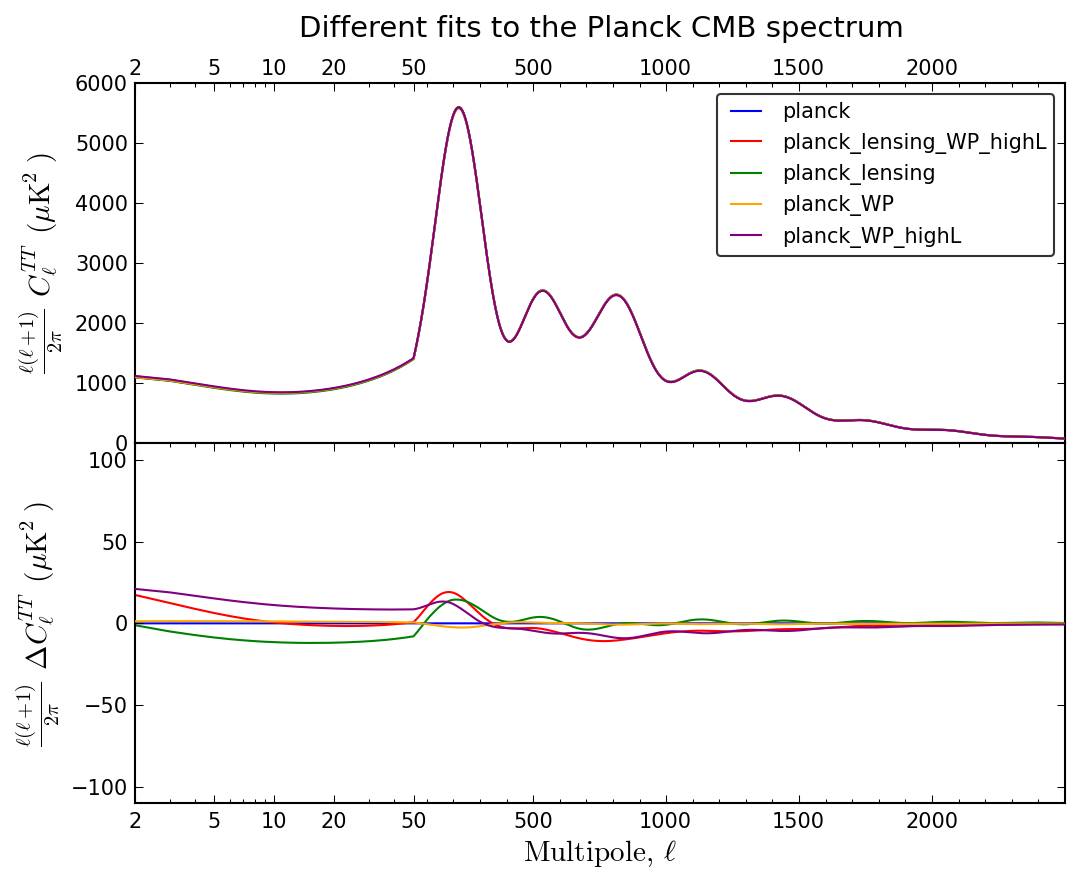
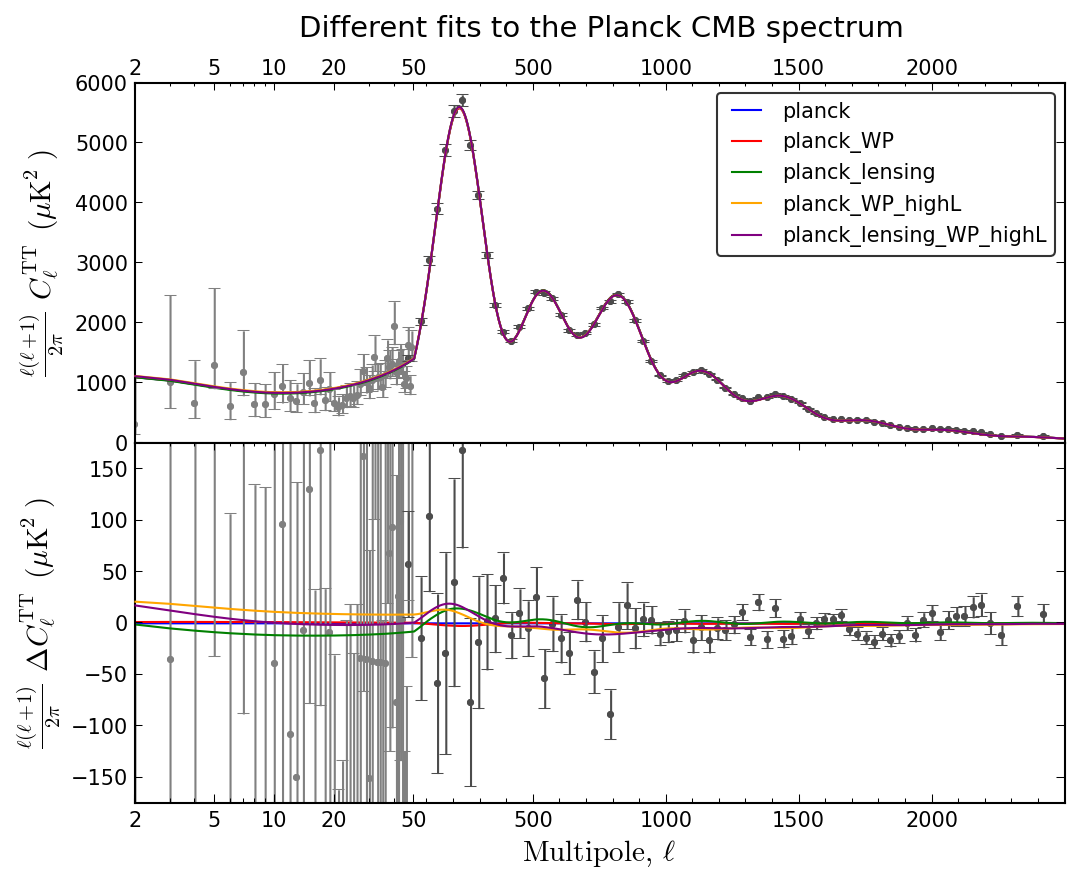
Fixed Planck scale. Version 1.1

diff --git a/src/PlanckLogLinearScale.py b/src/PlanckLogLinearScale.py
@@ -6,122 +6,128 @@
 #       since the scale must be registered (see last line)
 
 import numpy as np
+from numpy import ma
+MaskedArray = ma.MaskedArray
 from math import floor
 from matplotlib import scale as mscale
 from matplotlib.transforms import Transform
 from matplotlib.ticker import Formatter, FixedLocator
 
-class PlanckLogLinearScale(mscale.ScaleBase):
-    # The scale class must have a member ``name`` that defines the
-    # string used to select the scale.  For example,
-    # ``gca().set_yscale("mercator")`` would be used to select this
-    # scale.
+nonpos = "mask"
+change = 50.0
+factor = 750.
+
+def _mask_nonpos(a):
+    """
+    Return a Numpy masked array where all non-positive 1 are
+    masked.  If there are no non-positive, the original array
+    is returned.
+    """
+    mask = a <= 0.0
+    if mask.any():
+        return ma.MaskedArray(a, mask=mask)
+    return a
+
+def _clip_smaller_than_one(a):
+    a[a <= 0.0] = 1e-300
+    return a
+
+class PlanckScale(mscale.ScaleBase):
+    """
+    Scale used by the Planck collaboration to plot Temperature power spectra:
+    base-10 logarithmic up to l=50, and linear from there on.
+
+    Care is taken so non-positive values are not plotted.
+    """
     name = 'planck'
+
     def __init__(self, axis, **kwargs):
-        """
-        Any keyword arguments passed to ``set_xscale`` and
-        ``set_yscale`` will be passed along to the scale's
-        constructor.
-        """
-        mscale.ScaleBase.__init__(self)
+        pass
+
+    def set_default_locators_and_formatters(self, axis):
+        axis.set_major_locator(
+            FixedLocator(
+                np.concatenate((np.array([2, 5, 10, 20, change]),
+                                np.arange(500, 2500, 500)))))
+        axis.set_minor_locator(
+            FixedLocator(
+                np.concatenate((np.arange(2, 10),
+                                np.arange(10, 50, 10),
+                                np.arange(floor(change/100), 2500, 100)))))
+
     def get_transform(self):
         """
-        Override this method to return a new instance that does the
-        actual transformation of the data.
+        Return a :class:`~matplotlib.transforms.Transform` instance
+        appropriate for the given logarithm base.
         """
-        return self.PlanckLogLinearTransform()
-    def set_default_locators_and_formatters(self, axis):
-         """
-         Override to set up the locators and formatters to use with the
-         scale.  This is only required if the scale requires custom
-         locators and formatters.  Writing custom locators and
-         formatters is rather outside the scope of this example, but
-         there are many helpful examples in ``ticker.py``.
+        return self.PlanckTransform(nonpos)
 
-#         In our case, the Mercator example uses a fixed locator from
-#         -90 to 90 degrees and a custom formatter class to put convert
-#         the radians to degrees and put a degree symbol after the
-#         value::
-         """
-# EXAMPLE CODE
-#         class DegreeFormatter(Formatter):
-#             def __call__(self, x, pos=None):
-#                 # \u00b0 : degree symbol
-#                 return "%d\u00b0" % ((x / np.pi) * 180.0)
-#         deg2rad = np.pi / 180.0
-#         axis.set_major_locator(FixedLocator(np.arange(1, 2500, 10)))
-#         axis.set_major_formatter(DegreeFormatter())
-#         axis.set_minor_formatter(DegreeFormatter())
-         change = 50
-         axis.set_major_locator(FixedLocator(np.concatenate((np.array([2,5,10,20]),
-                                                             np.array([change]),
-                                                             np.arange(500, 2500, 500)))))
-         axis.set_minor_locator(FixedLocator(np.concatenate((np.arange(2,10),
-                                                             np.arange(10,50,10),
-                                                             np.arange(floor(change/100), 2500, 100)))))
-    class PlanckLogLinearTransform(Transform):
-        input_dims = 1
-        output_dims = 1
+    def limit_range_for_scale(self, vmin, vmax, minpos):
+        """
+        Limit the domain to positive values.
+        """
+        return (vmin <= 0.0 and minpos or vmin,
+                vmax <= 0.0 and minpos or vmax)
+
+    class PlanckTransform(Transform):
+        input_dims   = 1
+        output_dims  = 1
         is_separable = True
-        has_inverse = True
-        def __init__(self):
+        def __init__(self, nonpos):
             Transform.__init__(self)
-        def transform_non_affine(self, a):
-            """
-            This transform takes an Nx1 ``numpy`` array and returns a
-            transformed copy.  Since the range of the Mercator scale
-            is limited by the user-specified threshold, the input
-            array must be masked to contain only valid values.
-            ``matplotlib`` will handle masked arrays and remove the
-            out-of-range data from the plot.  Importantly, the
-            ``transform`` method *must* return an array that is the
-            same shape as the input array, since these values need to
-            remain synchronized with values in the other dimension.
-            """
-            change = 50.
-            factor = 750.
+            if nonpos == 'mask':
+                self._handle_nonpos = _mask_nonpos
+            else:
+                self._handle_nonpos = _clip_nonpos
+
+        def transform(self, a):
             lower   = a[np.where(a<=change)]
             greater = a[np.where(a> change)]
             if lower.size:
-                lower_after   = factor*np.log10(lower)
+                lower = self._handle_nonpos(lower * 10.0)/10.0
+                if isinstance(lower, MaskedArray):
+                    lower = ma.log10(lower)
+                else:
+                    lower = np.log10(lower)
+                lower = factor*lower
             if greater.size:
-                greater_after = factor*np.log10(change) + (greater-change)
+                greater = (factor*np.log10(change) + (greater-change))
             # Only low
             if not(greater.size):
-                return lower_after
+                return lower
             # Only high
             if not(lower.size):
-                return greater_after
-            return np.concatenate((lower_after, greater_after))
+                return greater
+            return np.concatenate((lower, greater))
+
         def inverted(self):
-            """
-            Override this method so matplotlib knows how to get the
-            inverse transform for this transform.
-            """
-            return InvertedPlanckLogLinearTransform()
-    class InvertedPlanckLogLinearTransform(Transform):
-        input_dims = 1
-        output_dims = 1
+            return PlanckScale.InvertedPlanckTransform()
+
+    class InvertedPlanckTransform(Transform):
+        input_dims   = 1
+        output_dims  = 1
         is_separable = True
-        has_inverse = True
-        def transform_non_affine(self, a):
-            change = 50.
-            factor = 750.
+
+        def transform(self, a):
             lower   = a[np.where(a<=factor*np.log10(change))]
             greater = a[np.where(a> factor*np.log10(change))]
             if lower.size:
-                lower_after   = np.power(10.0, lower/factor)
+                if isinstance(lower, MaskedArray):
+                    lower = ma.power(10.0, lower/float(factor))
+                else:
+                    lower = np.power(10.0, lower/float(factor))
             if greater.size:
-                greater_after = greater + change - factor*np.log10(change)
+                greater = (greater + change - factor*np.log10(change))
             # Only low
             if not(greater.size):
-                return lower_after
+                return lower
             # Only high
             if not(lower.size):
-                return greater_after
-            return np.concatenate((lower_after, greater_after))
+                return greater
+            return np.concatenate((lower, greater))
         def inverted(self):
-            return PlanckLogLinearTransform()
+            return PlanckTransform()
 
 # Finished. Register the scale!
-mscale.register_scale(PlanckLogLinearScale)
+mscale.register_scale(PlanckScale)
+

diff --git a/src/plot_Cl_CMB.py b/src/plot_Cl_CMB.py
@@ -11,6 +11,7 @@ from itertools import cycle
 from CMBspectrum import CMBspectrum
 import PlanckLogLinearScale
 
+nonpos = "mask"
 
 def plot_Cl_CMB(CMB_spectra,
                 # Main customisation parameters
@@ -119,9 +120,6 @@ def plot_Cl_CMB(CMB_spectra,
          str(spectra_types))
     if pol.lower() != "tt":
         data_points = False
-# TODO: Fix this!
-    if scale == "planck":
-        data_points = False
     l, Cl = {}, {}
     for spectrum in CMB_spectra:
         if lensed:
@@ -188,6 +186,8 @@ def plot_Cl_CMB(CMB_spectra,
             axes.plot(l_cmp, cl_cmp,
                       color=next(colour_cycler), linestyle=next(style_cycler),
                       label=spectrum.name(), zorder = i+1)
+
+        # Data points
         if data_points :
             l_cmp_data, cmp_data = compare_data(CMB_spectra[0].name(),
                                                 data_lowl[0], data_lowl[1])
@@ -273,9 +273,6 @@ def plot_Cl_CMB(CMB_spectra,
     scales = ["linear", "log", "planck"]
     assert scale.lower() in scales, \
         "'scale' must be in "+str(scales)
-    if scale == "planck":
-        print ("WARNING: This implementation of the 'planck' scale " +
-               "used by the ESA Planck mission is experimental.")
     for ax in axes_list:
         ax.set_xscale(scale)
     # Aspect

diff --git a/README.md b/README.md
@@ -29,9 +29,11 @@ The code in `examples/plot_Cl_CMB_example.py` generates the following plot:
 
 ![Different fits to the Planck CMB spectrum](planck_Cl_diffs.png)
 
-#### TODO
+### PlanckLogLinearScale.py
 
-* Add Planck data points
+An implementation of the log+linear scale used to plot the CMB power spectrum by the ESA Planck team.
+
+The example plot in the last section uses it.
 
 ### Chain.py
 
@@ -98,18 +100,6 @@ The code in `examples/likelihood_example.py` generates the following output:
     loglik  =  -4901.54609864
     chi2eff =  9803.09219727
 
-
-### PlanckLogLinearScale.py
-
-An experimental implementation of the log+linear scale used to plot the CMB power spectrum by the ESA Planck team.
-
-#### TODO:
-
-* fix localisation in the matplotlib GUI
-* Manually change the aspect ratio
-* Automatic ticks
-* 'change' and 'factor' parameters to be set manually, not hard coded
-* Document
 
 ## License
 
